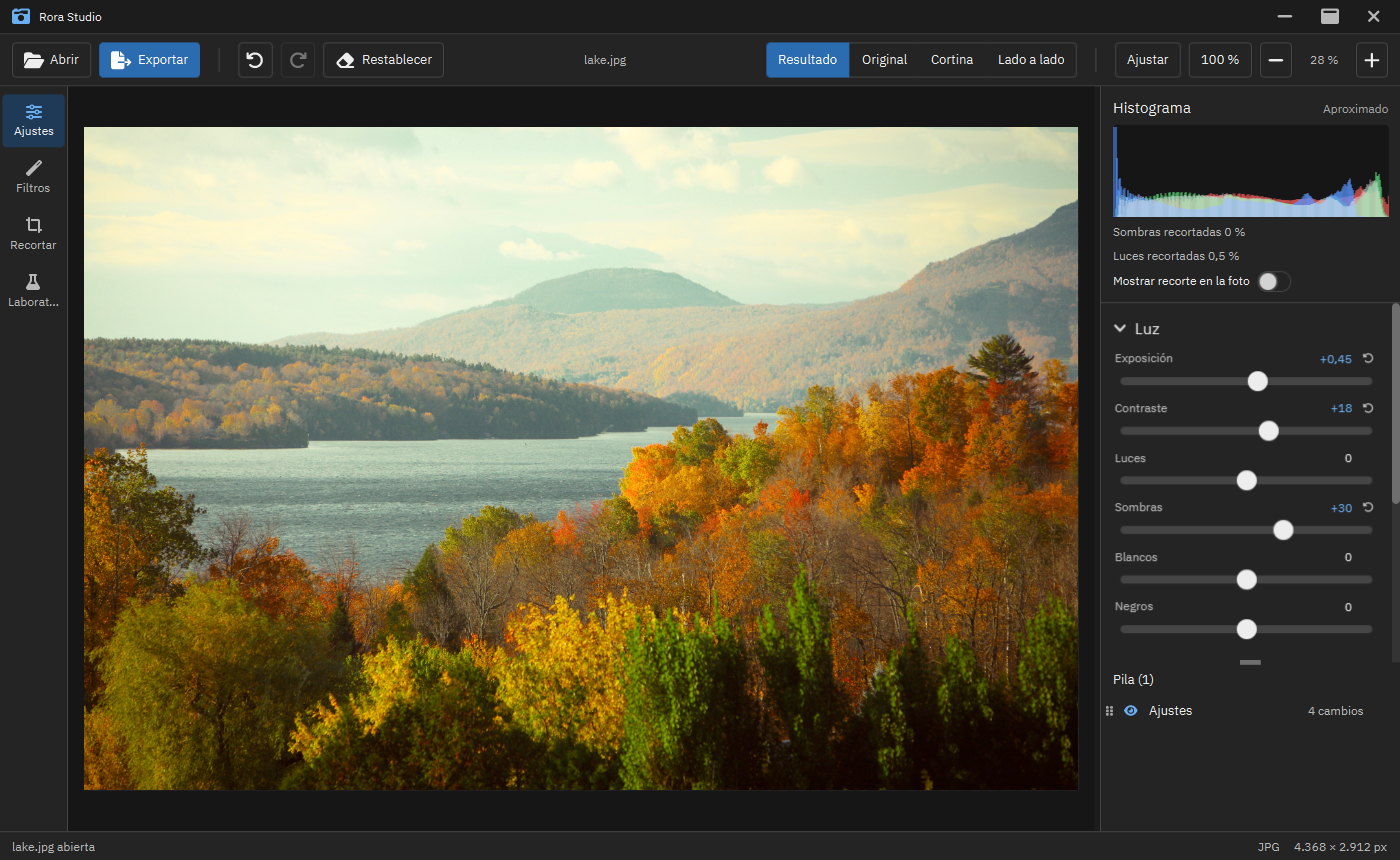
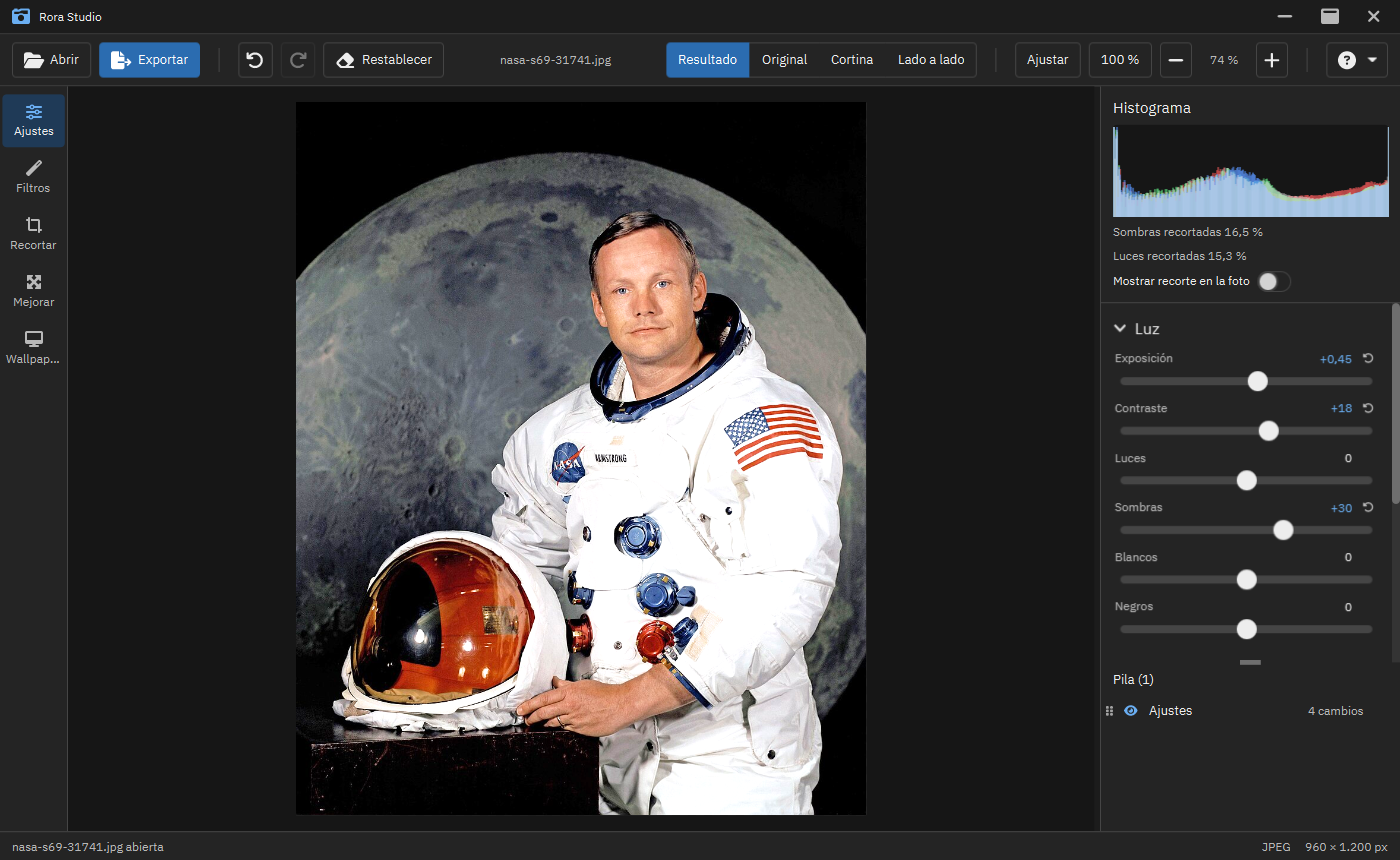
docs: README screenshot with the current interface
The old capture still showed the phase 3 rail (Laboratorio, no Mejorar,
no Wallpapers, no help button). The new one is the same scene, taken in
the packaged runtime, on the public-domain NASA portrait already in the
repository (its notice now mentions the documentation).

diff --git a/ai-engine/src/test/resources/faces/NOTICE.md b/ai-engine/src/test/resources/faces/NOTICE.md
@@ -7,4 +7,4 @@
 | Origen | <https://commons.wikimedia.org/wiki/File:Neil_Armstrong_pose.jpg>, que cita <https://www.nasa.gov/images/content/464436main_S69-31741_full.jpg> |
 | Licencia | Dominio público (obra de la NASA, gobierno de EE. UU.), según Wikimedia Commons, consultado el 2026-11-13 |
 
-Solo la usa el test `ai-real` de YuNet (`YuNetRealTest`).
+La usan el test `ai-real` de YuNet (`YuNetRealTest`) y las capturas de la documentación (`docs/img/captura.png`, `docs/img/wallpapers.jpg`).

diff --git a/README.md b/README.md
@@ -11,7 +11,7 @@ Editor de fotos de escritorio, no destructivo, con ajustes en luz lineal y pila 
 
 ![Captura de pantalla de Rora Studio](docs/img/captura.png)
 
-<sub>Foto de la captura: Pixel.la Free Stock Photos, CC0 1.0, vía Wikimedia Commons.</sub>
+<sub>Foto de la captura: retrato oficial de la NASA (S69-31741), dominio público, vía Wikimedia Commons.</sub>
 
 </div>
 
